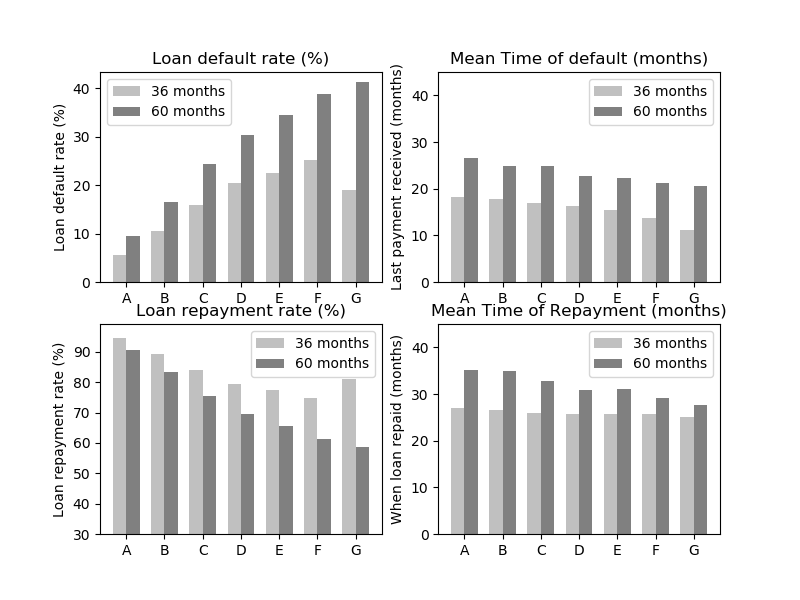
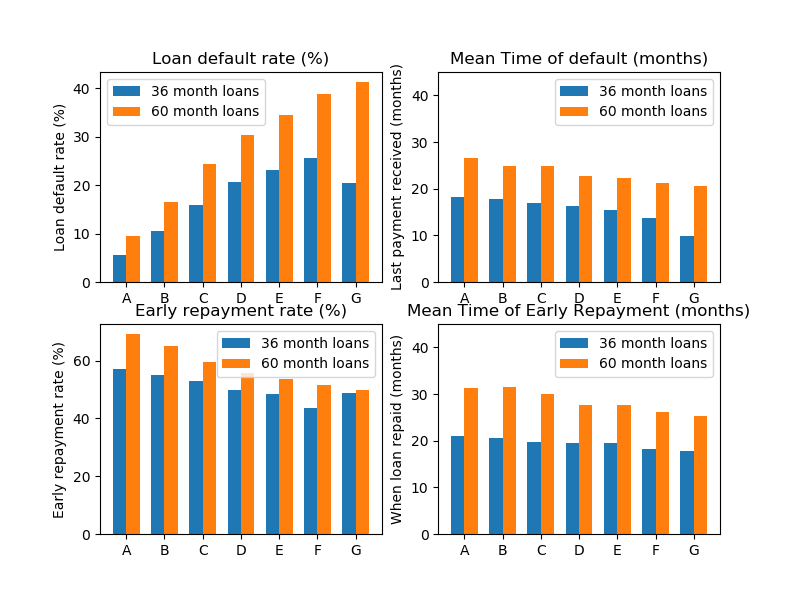
Add files via upload

diff --git a/sprkLCprePay.py b/sprkLCprePay.py
@@ -1,23 +1,13 @@
 """ 
-Default and Prepayment behavior by credit grade:
+Default and Prepayment behavior:
+Summarization by credit grade.
+
 """
 from __future__ import print_function
 
 from pyspark.sql import SparkSession
-#from pyspark.ml.feature import Tokenizer, RegexTokenizer
-#from pyspark.ml.feature import Word2Vec
-#from pyspark.ml.clustering import KMeans	
-
-#from pyspark.ml.regression import LinearRegression
-#from pyspark.ml.classification import LogisticRegression
-#from pyspark.ml.regression import RandomForestRegressor
-#from pyspark.ml.regression import GBTRegressor
-#from pyspark.sql import Row
 from pyspark.sql.types import *
-#from pyspark.ml.feature import VectorAssembler
-#from pyspark.ml.feature import RFormula
 import pyspark.sql.functions as F
-#from pyspark.ml.evaluation import RegressionEvaluator
 
 import pandas as pd
 
@@ -96,7 +86,7 @@ for i in months:
 
 
 df = df.withColumn('issue_d', (F.to_date('issue_d', 'MM-dd-yyyy')).alias('issue_d'))
-df = df.withColumn('last_pymnt_d', (F.to_date('last_pymnt_d', 'MM-dd-yyyy')).alias('last_pymnt_d'))
+df = df.withColumn('last_pymnt_d', F.to_date('last_pymnt_d', 'MM-dd-yyyy'))
 df = df.withColumn('mnth_start2last', F.months_between(df.last_pymnt_d, df.issue_d).alias('mnth_start2last'))
 df = df.withColumn('fracNumPmts', F.col('mnth_start2last')/F.col('term2'))
 		
@@ -104,66 +94,91 @@ df = df.withColumn('fracNumPmts', F.col('mnth_start2last')/F.col('term2'))
 df = df.na.fill({'desc': 'none' }) #perhaps doesn't matter?
 
 
+#df = df.drop('sub_grade', 'total_pymnt', 'last_pymnt_amnt', 'application_type')
+
 df2 = df #keep a backup
 #then drop rows with leftover na's
+
+df = df.drop("loan_amnt", "int_rate","sub_grade","home_ownership","annual_inc","application_type",
+	 "desc","emp_length", "dti", "revol_util","total_pymnt","installment","last_pymnt_amnt", "issue_d",
+	 	)
+
 df = df.na.drop(how='any')
 
 if df.count()>0:
 	del(df2) #if df is okay (did not lose all data!)
 
-#A summary of approximate stats. Lower relativeError for more precision, 0 is exact
-#df.filter(df.term2==60).filter(df.loan_status==0).approxQuantile(col=['mnth_start2last'], probabilities=[.25,.5,.75], relativeError=.15)
-#will not work wit groupBy + agg(). If required for groups, need to loop over, and filter by group
-
+df = df.drop('issue_d','last_pymnt_d','mnth_start2last')
 
 #Loan default rates (mean and stddev) by loan grade
 #mean
-def36mean = df.filter(df.term2==36).groupBy(df.grade).agg(F.mean(df.loan_status).alias('def36mean'))
-#standard dev.
-def36sd = df.filter(df.term2==36).groupBy(df.grade).agg(F.stddev(df.loan_status).alias('def36sd'))
+def36 = df.filter(df.term2==36).groupBy(df.grade).agg(F.mean(df.loan_status).alias('def36mean'),
+														F.stddev(df.loan_status).alias('def36sd'))
 
-#if needed
-#def36mean.show()
-#def36sd.show()
+def60 = df.filter(df.term2==60).groupBy(df.grade).agg(F.mean(df.loan_status).alias('def60mean'),
+														F.stddev(df.loan_status).alias('def60sd'))
+#stats on early repayment, compared to all loans (not just those that were repaid)
+df = df.withColumn('ER',F.when((df.fracNumPmts<1)&(df.loan_status==0),1).otherwise(0)) #create an indicator for repayment
 
-#default for 60 months
-def60mean = df.filter(df.term2==60).groupBy(df.grade).agg(F.mean(df.loan_status).alias('def60mean'))
-def60sd = df.filter(df.term2==60).groupBy(df.grade).agg(F.stddev(df.loan_status).alias('def60sd'))
+ER36 = df.filter(df.term2==36).groupBy(df.grade).agg(F.mean(df.ER).alias('ER36mean'), F.stddev(df.ER).alias('ER36sd'))
+#ER36.sort('grade').show()
+# +-----+-------------------+-------------------+                                 
+# |grade|           ER36mean|             ER36sd|
+# +-----+-------------------+-------------------+
+# |    A| 0.5719117699974812|0.49481057718338295|
+# |    B| 0.5505616008691233| 0.4974413135831339|
+# |    C|  0.528578874218207|0.49918980691847653|
+# |    D|0.49854093073260636| 0.5000106704025198|
+# |    E| 0.4868519909842224|0.49988969963910895|
+# |    F| 0.4368794326241135|0.49635193988434306|
+# |    G| 0.4864864864864865| 0.5067117097095317|
+# +-----+-------------------+-------------------+
+ER60 = df.filter(df.term2==60).groupBy(df.grade).agg(F.mean(df.ER).alias('ER60mean'), F.stddev(df.ER).alias('ER60sd'))
+#ER60.sort('grade').show()
+# +-----+------------------+-------------------+                                  
+# |grade|          ER60mean|             ER60sd|
+# +-----+------------------+-------------------+
+# |    A|0.7861356932153393|0.41033486976071437|
+# |    B|0.7346020053202373| 0.4415900828240326|
+# |    C|0.6888206204106099|0.46299334256719205|
+# |    D| 0.629277566539924| 0.4830310492302113|
+# |    E|0.5855280659749933| 0.4926634091801306|
+# |    F|0.5581901239939091|  0.496656388107999|
+# |    G|0.5482233502538071| 0.4979218916924311|
+# +-----+------------------+-------------------+
 
-#if needed
-#def60mean.show()
-#def60sd.show()
 
-#Time when last payment received for all defaulted loans
-defTime36mean = df.filter(df.term2==36).filter(df.loan_status==1).groupBy(df.grade).agg(F.mean(df.fracNumPmts).alias('defTime36mean'))
-defTime36sd = df.filter(df.term2==36).filter(df.loan_status==1).groupBy(df.grade).agg(F.stddev(df.fracNumPmts).alias('defTime36sd'))
-defTime60mean = df.filter(df.term2==60).filter(df.loan_status==1).groupBy(df.grade).agg(F.mean(df.fracNumPmts).alias('defTime60mean'))
-defTime60sd = df.filter(df.term2==60).filter(df.loan_status==1).groupBy(df.grade).agg(F.stddev(df.fracNumPmts).alias('defTime60sd'))
+defTime36 =  df.filter(df.term2==36).filter(df.loan_status==1).groupBy(df.grade).agg(F.mean(df.fracNumPmts).alias('defTime36mean'),
+																	F.stddev(df.fracNumPmts).alias('defTime36sd'))
+defTime60 =  df.filter(df.term2==60).filter(df.loan_status==1).groupBy(df.grade).agg(F.mean(df.fracNumPmts).alias('defTime60mean'),
+																	F.stddev(df.fracNumPmts).alias('defTime60sd'))
 
+#ER time early repayment only
+ERTime36 = df.filter(df.term2==36).filter(df.ER==1).groupBy(df.grade).agg(F.mean(df.fracNumPmts).alias('ERTime36mean'),
+															F.stddev(df.fracNumPmts).alias('ERTime36sd'))
+ERTime60 = df.filter(df.term2==60).filter(df.ER==1).groupBy(df.grade).agg(F.mean(df.fracNumPmts).alias('ERTime60mean'),
+															F.stddev(df.fracNumPmts).alias('ERTime60sd'))
 
-#Time when loans are repaid (as planned or early)
-repTime36mean = df.filter(df.term2==36).filter(df.loan_status==0).groupBy(df.grade).agg(F.mean(df.fracNumPmts).alias('repTime36mean'))
-repTime36sd = df.filter(df.term2==36).filter(df.loan_status==0).groupBy(df.grade).agg(F.stddev(df.fracNumPmts).alias('repTime36sd'))
-repTime60mean = df.filter(df.term2==60).filter(df.loan_status==0).groupBy(df.grade).agg(F.mean(df.fracNumPmts).alias('repTime60mean'))
-repTime60sd = df.filter(df.term2==60).filter(df.loan_status==0).groupBy(df.grade).agg(F.stddev(df.fracNumPmts).alias('repTime60sd'))
 
 #Join all of them up by grade
-grade_table = def36mean.join(def36sd, def36mean.grade==def36sd.grade,'inner').drop(def36sd.grade)
-grade_table = grade_table.join(def60mean, grade_table.grade==def60mean.grade,'inner').drop(def60mean.grade)
-grade_table = grade_table.join(def60sd, grade_table.grade==def60sd.grade,'inner').drop(def60sd.grade)
-grade_table = grade_table.join(defTime36mean, grade_table.grade==defTime36mean.grade,'inner').drop(defTime36mean.grade)
-grade_table = grade_table.join(defTime36sd, grade_table.grade==defTime36sd.grade,'inner').drop(defTime36sd.grade)
-grade_table = grade_table.join(defTime60mean, grade_table.grade==defTime60mean.grade,'inner').drop(defTime60mean.grade)
-grade_table = grade_table.join(defTime60sd, grade_table.grade==defTime60sd.grade,'inner').drop(defTime60sd.grade)
-grade_table = grade_table.join(repTime36mean, grade_table.grade==repTime36mean.grade,'inner').drop(repTime36mean.grade)
-grade_table = grade_table.join(repTime36sd, grade_table.grade==repTime36sd.grade,'inner').drop(repTime36sd.grade)
-grade_table = grade_table.join(repTime60mean, grade_table.grade==repTime60mean.grade,'inner').drop(repTime60mean.grade)
-grade_table = grade_table.join(repTime60sd, grade_table.grade==repTime60sd.grade,'inner').drop(repTime60sd.grade)
+grade_table = def36.join(def60, def36.grade==def60.grade,'inner').drop(def36.grade)
+grade_table = grade_table.join(ER36, grade_table.grade==ER36.grade,'inner').drop(ER36.grade)
+grade_table = grade_table.join(ER60, grade_table.grade==ER60.grade,'inner').drop(ER60.grade)
+grade_table = grade_table.join(defTime36, grade_table.grade==defTime36.grade,'inner').drop(defTime36.grade)
+grade_table = grade_table.join(defTime60, grade_table.grade==defTime60.grade,'inner').drop(defTime60.grade)
+grade_table = grade_table.join(ERTime36, grade_table.grade==ERTime36.grade,'inner').drop(ERTime36.grade)
+grade_table = grade_table.join(ERTime60, grade_table.grade==ERTime60.grade,'inner').drop(ERTime60.grade)
 
+
+#optional
 grade_table = grade_table.sort(grade_table.grade)
 
-grade_table = grade_table.select(['grade', 'def36mean', 'def36sd', 'def60mean', 'def60sd', 'defTime36mean', 
-						'defTime36sd', 'defTime60mean', 'defTime60sd', 'repTime36mean', 'repTime36sd', 'repTime60mean', 'repTime60sd'])
+#expensive, switching columns around, optional
+# grade_table = grade_table.select('grade', 'def36mean', 'def36sd', 'def60mean', 'def60sd', 'defTime36mean', 
+# 						'defTime36sd', 'defTime60mean', 'defTime60sd', 
+# 						'repTime36mean', 'repTime36sd', 'repTime60mean', 'repTime60sd',
+# 						'ER36mean', 'ER36sd','ER60mean','ER60sd',
+# 						 'ERTime36mean', 'ERTime36sd', 'ERTime60mean', 'ERTime60sd')
 
 #grade_table.show()
 
